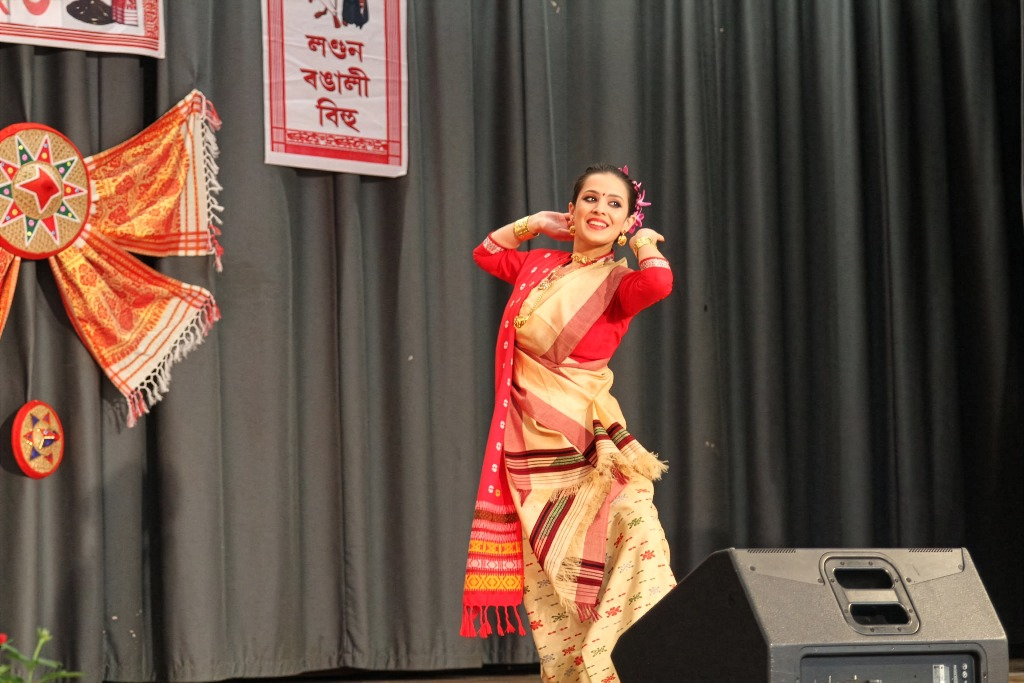
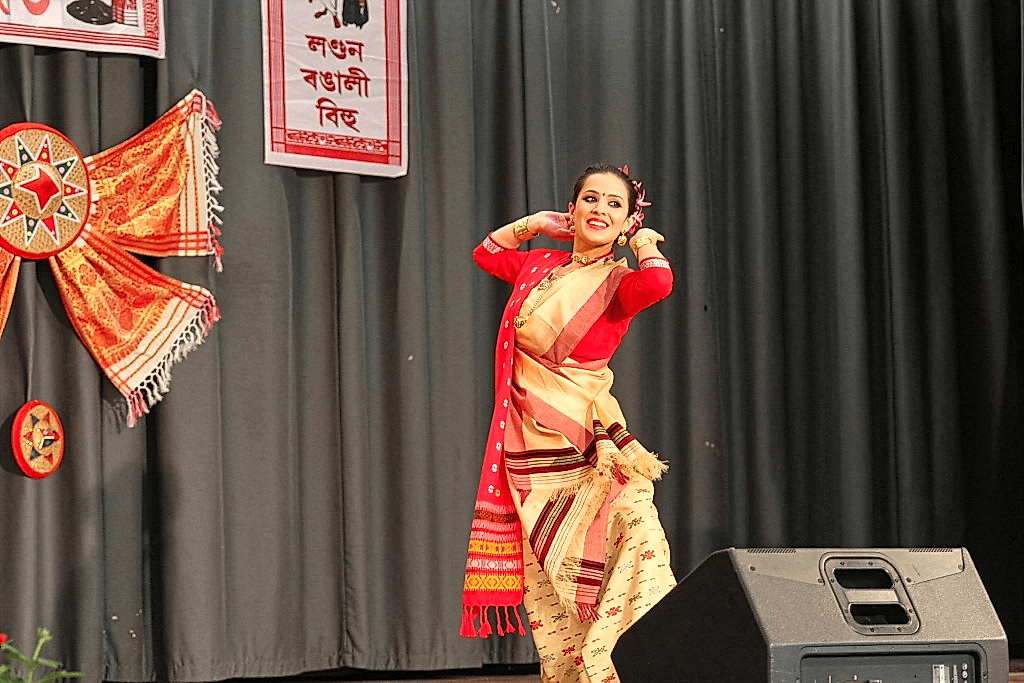
Enhance right hero image sharpness, clarity, and contrast lossless resolution

diff --git a/app/globals.css b/app/globals.css
@@ -185,6 +185,7 @@ p {
   object-fit: cover;
   object-position: 58% center;
   filter: none !important;
+  image-rendering: -webkit-optimize-contrast;
 }
 
 .hero-vignette-overlay-right {
